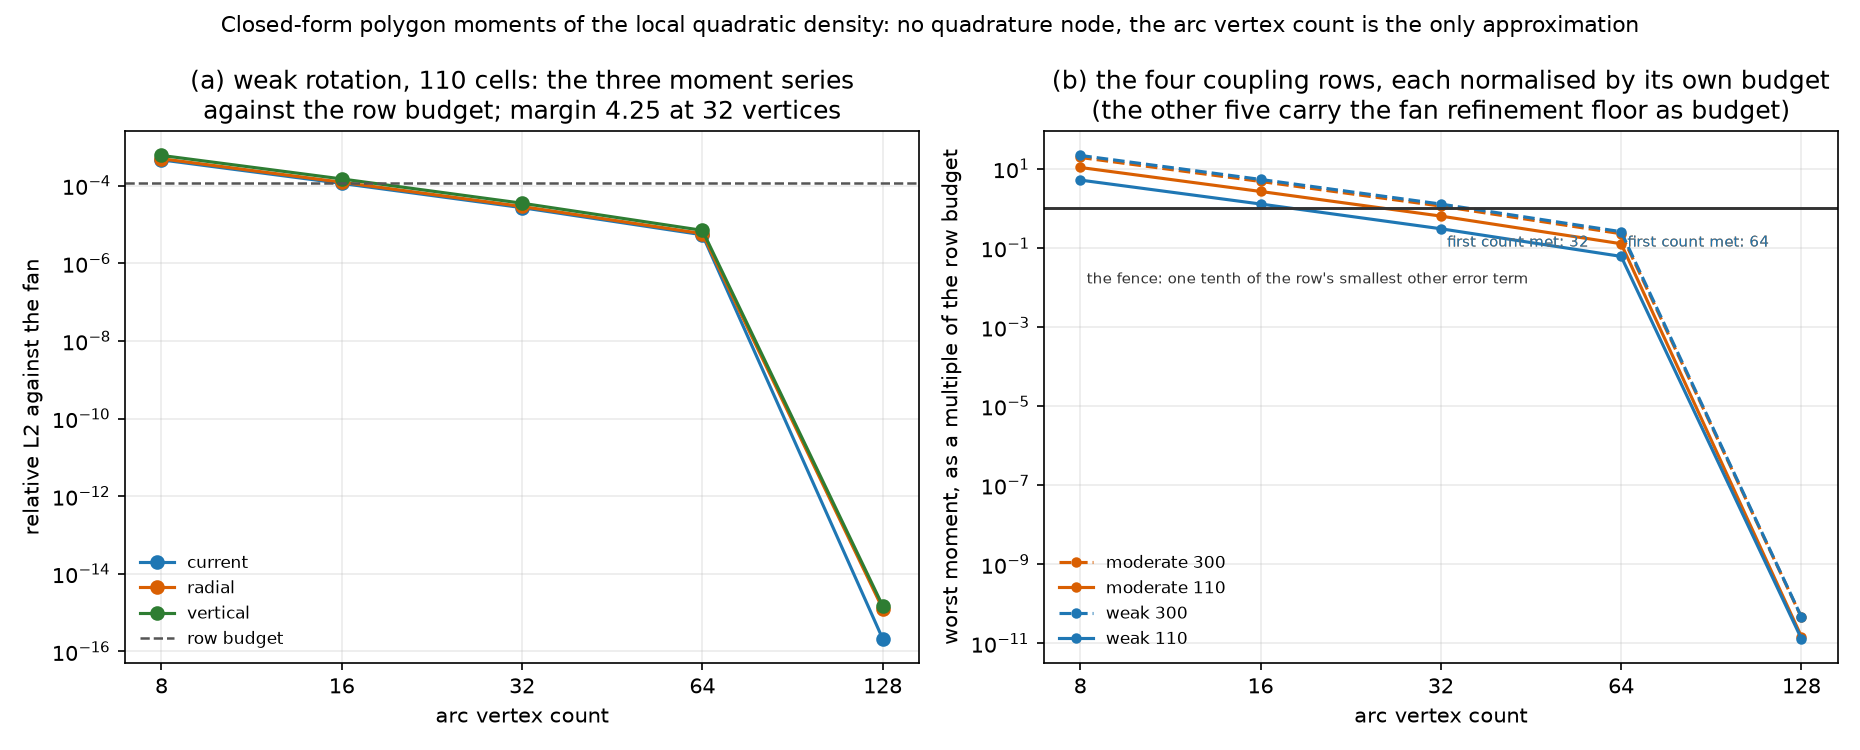
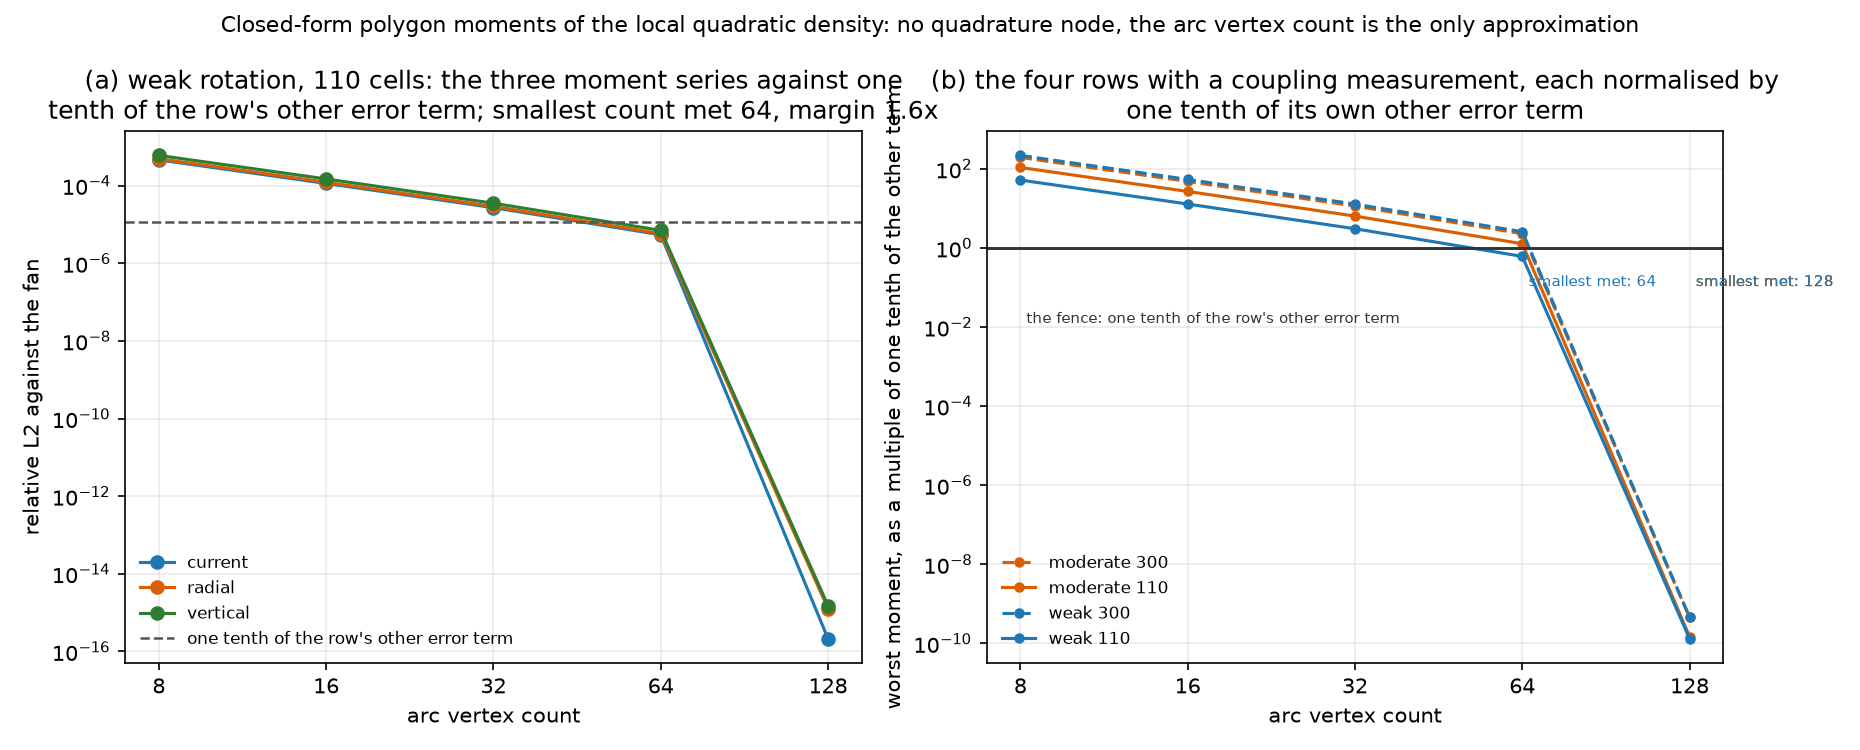
fix(equilibrium): gate the closed-form moment floor at one tenth of the row term
The closed-form moment driver carried the row's other error term itself in
COUPLING_BUDGET and the fan refinement floor itself in FALLBACK_BUDGET, so the
budget a row was scored against was ten times the one tenth the row-margin
table and the module's own docstrings state. The base arm is reproduced against
the repaired module: it hands weak-110 1.147e-04 where the repaired arm hands
1.147e-05 on all four coupling rows, and the fallback rows move from
2.924e-16 / 5.109e-15 / 5.064e-15 to their tenths. A fallback row's tenth sits
below any polyline's own round-off floor, so such a row is reported as met by no
arc vertex count rather than by a count that would read as a route verdict.

The convergence panel is regenerated on all_debug against the tenth, so its
annotation and its arithmetic agree: the fence it draws is the budget a row is
scored against, and the count it names is the smallest count that meets it.

diff --git a/benchmarks/exact_clip_closed_form_floor.py b/benchmarks/exact_clip_closed_form_floor.py
@@ -208,18 +208,21 @@ def _closed_form_moments(
 #: coupling rows carry the second-order coupling frozen-image error of their
 #: own component.
 #: The fallback rows carry the fan refinement floor, reported per moment, and
-#: apply to every row the coupling table did not reach. A row is met when every
+#: apply to every row the coupling table did not reach. That floor sits at
+#: round-off scale, so its tenth is below any polyline's own round-off floor and
+#: a fallback row is reported as met by no arc vertex count rather than by
+#: a count that would read as a verdict on the route. A row is met when every
 #: moment series it gates sits at or below its budget.
 COUPLING_BUDGET = {
-    ("weak-rotation-reactor-static", -110): 1.147e-4,
-    ("weak-rotation-reactor-static", -300): 3.244e-5,
-    ("moderate-rotation-conventional-static", -110): 1.040e-4,
-    ("moderate-rotation-conventional-static", -300): 3.348e-5,
+    ("weak-rotation-reactor-static", -110): 1.147e-5,
+    ("weak-rotation-reactor-static", -300): 3.244e-6,
+    ("moderate-rotation-conventional-static", -110): 1.040e-5,
+    ("moderate-rotation-conventional-static", -300): 3.348e-6,
 }
 FALLBACK_BUDGET = {
-    "current": 2.924e-16,
-    "radial": 5.109e-15,
-    "vertical": 5.064e-15,
+    "current": 2.924e-17,
+    "radial": 5.109e-16,
+    "vertical": 5.064e-16,
 }
 
 
